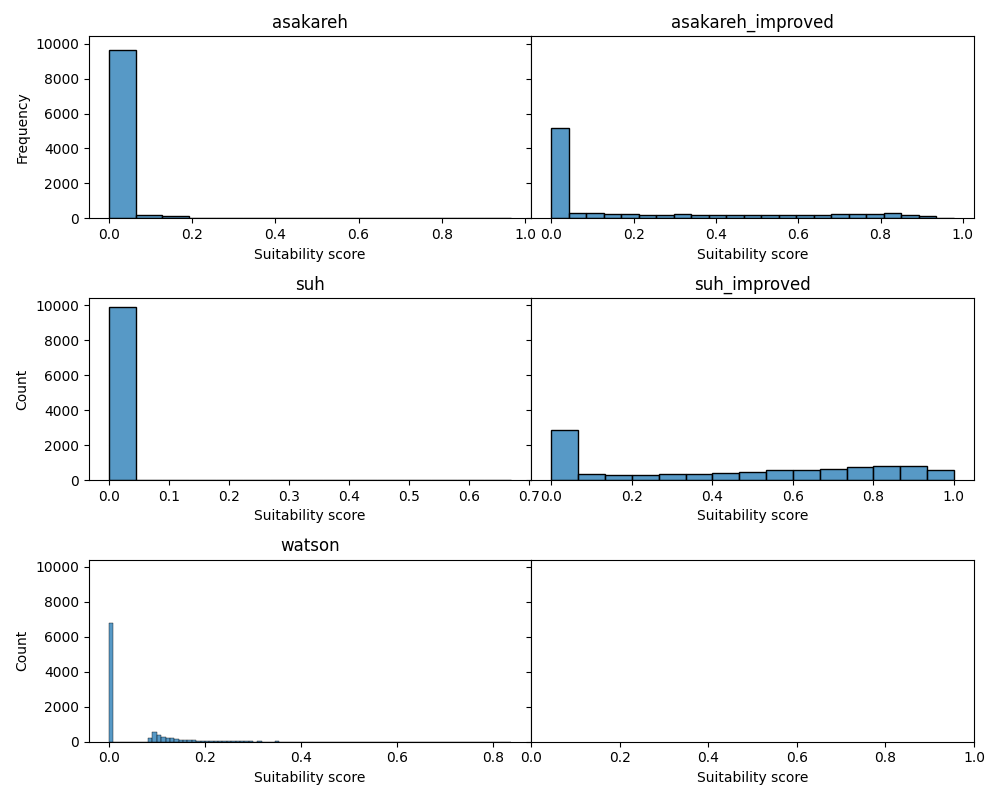
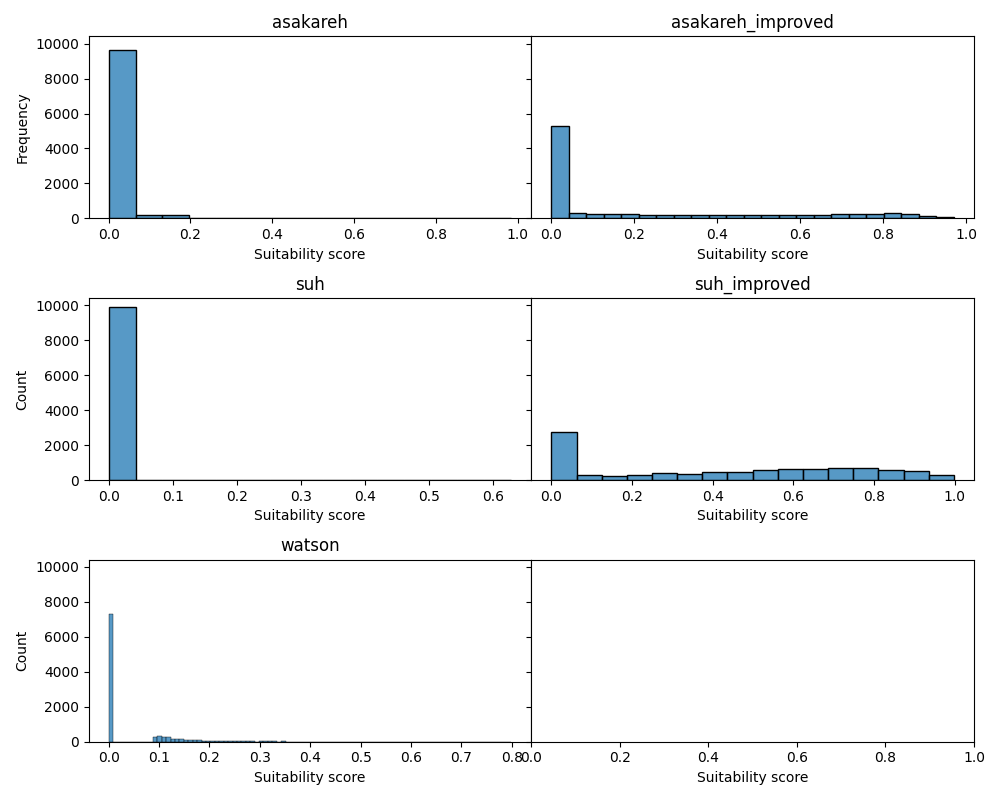
Upgrade graphs

diff --git a/other/results_with_existing/out/descriptive_stats.html b/other/results_with_existing/out/descriptive_stats.html
@@ -31,7 +31,7 @@
       <td>0.000321</td>
       <td>0.0</td>
       <td>0.0</td>
-      <td>0.000000</td>
+      <td>0.00000</td>
       <td>0.000000</td>
       <td>0.002464</td>
     </tr>
@@ -42,7 +42,7 @@
       <td>0.009749</td>
       <td>0.0</td>
       <td>0.0</td>
-      <td>0.000000</td>
+      <td>0.00000</td>
       <td>0.000000</td>
       <td>0.074885</td>
     </tr>
@@ -53,31 +53,31 @@
       <td>0.137165</td>
       <td>0.0</td>
       <td>0.0</td>
-      <td>0.000000</td>
+      <td>0.00000</td>
       <td>0.000000</td>
       <td>0.579757</td>
     </tr>
     <tr>
       <th>suh_improved</th>
       <td>59.0</td>
-      <td>0.490046</td>
-      <td>0.471569</td>
+      <td>0.424881</td>
+      <td>0.419258</td>
       <td>0.0</td>
       <td>0.0</td>
-      <td>0.837348</td>
-      <td>0.947218</td>
-      <td>0.995910</td>
+      <td>0.54704</td>
+      <td>0.835006</td>
+      <td>0.996333</td>
     </tr>
     <tr>
       <th>watson</th>
       <td>59.0</td>
-      <td>0.015761</td>
-      <td>0.035238</td>
+      <td>0.004888</td>
+      <td>0.021307</td>
       <td>0.0</td>
       <td>0.0</td>
+      <td>0.00000</td>
       <td>0.000000</td>
-      <td>0.000000</td>
-      <td>0.101372</td>
+      <td>0.098045</td>
     </tr>
   </tbody>
 </table>
